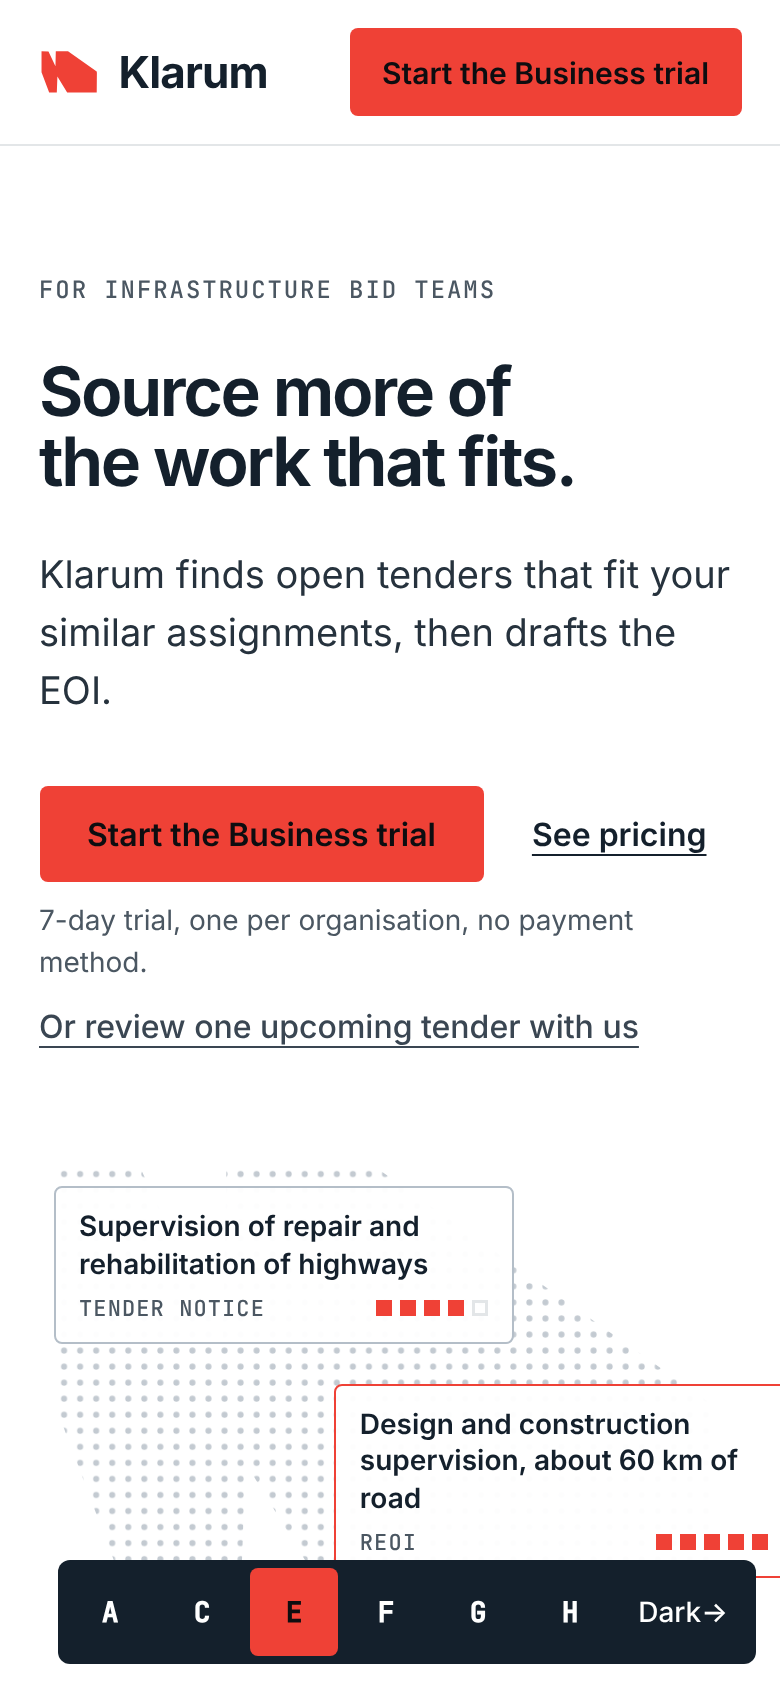
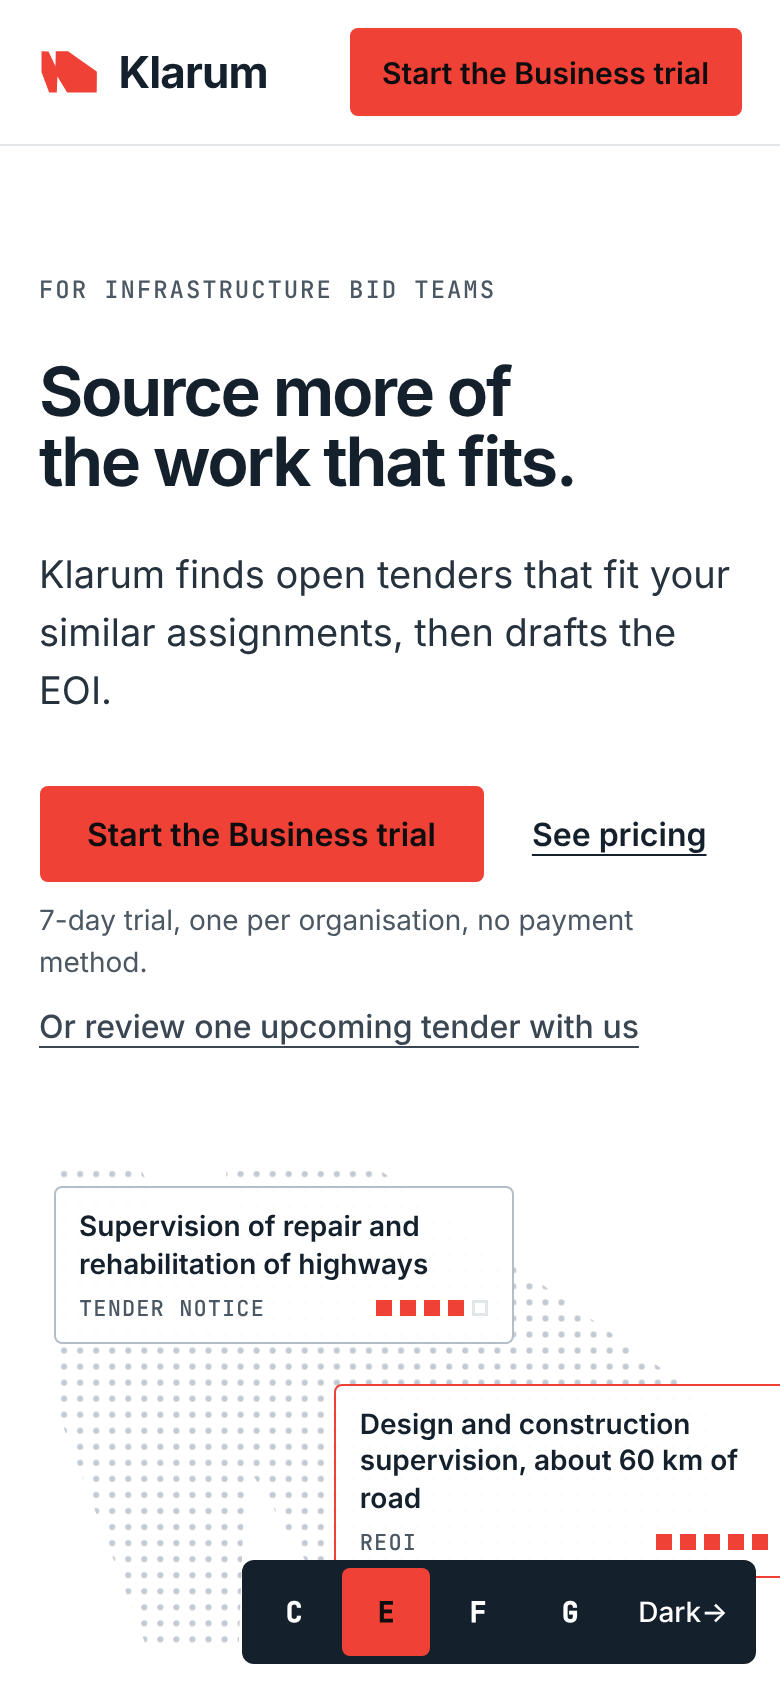
v2: drop heroes A and H; /v2 now opens on C
Claude-Session: https://claude.ai/code/session_01EG1FwseZsdu64NB1Ckikp9

Changed region(s): [[0.0615, 0.9242, 0.5538, 0.9858]]

diff --git a/components/v2/Field.tsx b/components/v2/Field.tsx
@@ -1,7 +1,7 @@
 import { notices, type Notice } from "@/lib/data";
 import { Pips } from "@/components/Pips";
 
-/* Static, deterministic "notice field" art. Pure SVG, no raster, no motion except the pulse ring. */
+/* Static, deterministic "notice field" art. Pure SVG, no raster, no motion. */
 
 function rng(seed: number) {
   return () => {
@@ -50,7 +50,6 @@ function Dots({ dots, r = 3, rHit = 5.5 }: { dots: Dot[]; r?: number; rHit?: num
 const K_DOTS = scatter(1500, 700, 518, 7, (x, y) => inPoly(x, y, K_POLY), (_x, _y, i) => i % 97 === 5);
 const LENS = { cx: 330, cy: 260, r: 150 };
 const FIELD_DOTS = scatter(430, 640, 520, 11, () => true, (x, y, i) => i % 5 === 0 && (x - LENS.cx) ** 2 + (y - LENS.cy) ** 2 < (LENS.r - 14) ** 2);
-const ONE_DOTS = scatter(430, 640, 520, 23, (x, y) => (x - 470) ** 2 + (y - 270) ** 2 > 22 ** 2, () => false);
 
 function Card({ n, left, top, hit }: { n: Notice; left: string; top: string; hit?: boolean }) {
   return (
@@ -66,7 +65,7 @@ function Card({ n, left, top, hit }: { n: Notice; left: string; top: string; hit
 
 const [ted, vanuatu, srilanka] = notices;
 
-export type FieldKind = "mass" | "signal" | "lens" | "one";
+export type FieldKind = "mass" | "signal" | "lens";
 
 export function Field({ kind }: { kind: FieldKind }) {
   const kShape = kind === "mass" || kind === "signal";
@@ -88,20 +87,12 @@ export function Field({ kind }: { kind: FieldKind }) {
             <circle cx={LENS.cx} cy={LENS.cy} r={LENS.r} fill="none" stroke="#14202c" strokeWidth="1.5" />
           </>
         )}
-        {kind === "one" && (
-          <>
-            <Dots dots={ONE_DOTS} />
-            <circle cx="470" cy="270" r="7" fill="#14202c" />
-            <circle className="m-pulse" cx="470" cy="270" r="14" fill="none" stroke="#14202c" strokeWidth="2" />
-          </>
-        )}
       </svg>
       {kind === "mass" && (<><Card n={ted} left="2%" top="6%" /><Card n={vanuatu} left="42%" top="38%" hit /><Card n={srilanka} left="8%" top="68%" /></>)}
       {kind === "signal" && <Card n={vanuatu} left="40%" top="68%" hit />}
       {kind === "lens" && (<><Card n={vanuatu} left="30%" top="26%" hit /><Card n={ted} left="38%" top="58%" hit /></>)}
-      {kind === "one" && <Card n={vanuatu} left="56%" top="52%" hit />}
       <figcaption className="m-fcap">
-        {{ mass: "The mark is the mass. Notices are pulled out of it.", signal: "Grey is the feed. Red is what fits.", lens: "Inside the circle: what fits your similar assignments.", one: "Every dot is a notice." }[kind]} Illustrative; fit scores are sample values.
+        {{ mass: "The mark is the mass. Notices are pulled out of it.", signal: "Grey is the feed. Red is what fits.", lens: "Inside the circle: what fits your similar assignments." }[kind]} Illustrative; fit scores are sample values.
       </figcaption>
     </figure>
   );

diff --git a/components/v2/Hero.tsx b/components/v2/Hero.tsx
@@ -2,15 +2,13 @@ import { URLS, notices } from "@/lib/data";
 import { CompactNotice } from "@/components/NoticeFeed";
 import { Field, type FieldKind } from "./Field";
 
-export type HeroId = "a" | "c" | "e" | "f" | "g" | "h";
-export const HERO_IDS: HeroId[] = ["a", "c", "e", "f", "g", "h"];
+export type HeroId = "c" | "e" | "f" | "g";
+export const HERO_IDS: HeroId[] = ["c", "e", "f", "g"];
 export const HERO_NOTES: Record<HeroId, string> = {
-  a: "Statement. Type only.",
   c: "Feed. Notices beside the promise.",
   e: "The mass. The K as a field of dots.",
   f: "Signal in the shape. Red is what fits.",
   g: "Lens. The market filtered by fit.",
-  h: "One of these is yours.",
 };
 
 function Actions({ note = true }: { note?: boolean }) {
@@ -20,22 +18,6 @@ function Actions({ note = true }: { note?: boolean }) {
       <a href={URLS.pricing} className="m-link">See pricing</a>
       {note && <p className="m-fine">7-day trial, one per organisation, no payment method.</p>}
     </div>
-  );
-}
-
-function A() {
-  return (
-    <section className="m-hero m-hero-a">
-      <div className="m-wrap">
-        <p className="m-lab">For infrastructure bid teams</p>
-        <h1>Turn your own project files into an expression of interest that meets the shortlisting criteria.</h1>
-        <p className="m-lead">
-          Klarum finds open tenders that fit your similar assignments, then drafts the EOI. Every experience claim links to the page that proves it.
-        </p>
-        <Actions />
-        <a href={URLS.review} className="m-link m-quiet">Or review one upcoming tender with us</a>
-      </div>
-    </section>
   );
 }
 
@@ -79,8 +61,7 @@ function FieldHero({ kind, title, lead }: { kind: FieldKind; title: string; lead
 const E = () => <FieldHero kind="mass" title="Source more of the work that fits." lead="Klarum finds open tenders that fit your similar assignments, then drafts the EOI." />;
 const F = () => <FieldHero kind="signal" title="The right work, resolved from the noise." lead="Klarum finds open tenders that fit your similar assignments." />;
 const G = () => <FieldHero kind="lens" title="The whole market, filtered by what you can deliver." lead="Sources include national procurement portals, TED and the development banks. Klarum marks the notices that fit your similar assignments." />;
-const H = () => <FieldHero kind="one" title="One of these is yours." lead="Sources include national procurement portals, TED and the development banks. Every notice links back to the original publication." />;
 
 export function Hero({ id }: { id: HeroId }) {
-  return { a: <A />, c: <C />, e: <E />, f: <F />, g: <G />, h: <H /> }[id];
+  return { c: <C />, e: <E />, f: <F />, g: <G /> }[id];
 }

diff --git a/tests/v2.spec.ts b/tests/v2.spec.ts
@@ -3,12 +3,10 @@ import AxeBuilder from "@axe-core/playwright";
 
 // Light, minimalist version at /v2/<hero>. Dark version stays at /.
 const HEROES = {
-  a: /Turn your own project files into an expression of interest/,
   c: /Open tenders that fit your similar assignments, in one feed\./,
   e: /Source more of the work that fits\./,
   f: /The right work, resolved from the noise\./,
   g: /The whole market, filtered by what you can deliver\./,
-  h: /One of these is yours\./,
 } as const;
 const FORBIDDEN = /app\.klarum\.com|api\.klarum\.com|posthog/i;
 
@@ -65,20 +63,20 @@ for (const [id, h1] of Object.entries(HEROES)) {
       await page.evaluate(() => document.fonts.ready);
       const dir = `screenshots/v2/${info.project.name}`;
       await page.screenshot({ path: `${dir}/hero-${id}.png` });
-      if (id === "a") await page.screenshot({ path: `${dir}/page.png`, fullPage: true });
+      if (id === "c") await page.screenshot({ path: `${dir}/page.png`, fullPage: true });
     });
   });
 }
 
 test("v2: switcher links every hero and the dark version", async ({ page }) => {
-  await page.goto("/v2/a");
+  await page.goto("/v2/c");
   const nav = page.getByRole("navigation", { name: "Hero variants" });
-  for (const l of ["A", "C", "E", "F", "G", "H"]) await expect(nav.getByRole("link", { name: new RegExp(`^Hero ${l}`) })).toBeVisible();
+  for (const l of ["C", "E", "F", "G"]) await expect(nav.getByRole("link", { name: new RegExp(`^Hero ${l}`) })).toBeVisible();
   await expect(nav.getByRole("link", { name: /Dark version/ })).toHaveAttribute("href", "/");
 });
 
 test("v2: shortlist, cited claim and pricing toggle still work", async ({ page }) => {
-  await page.goto("/v2/a");
+  await page.goto("/v2/c");
   const btn = page.locator("#notices").getByRole("button", { name: /Shortlist/ }).first();
   await btn.click();
   await expect(btn).toHaveAttribute("aria-pressed", "true");
@@ -89,7 +87,7 @@ test("v2: shortlist, cited claim and pricing toggle still work", async ({ page }
 });
 
 test("v2: claims.md 'confirm' rows stay out", async ({ page }) => {
-  await page.goto("/v2/a");
+  await page.goto("/v2/c");
   const t = await page.locator("body").innerText();
   expect(t).not.toMatch(/thirty|same day|legal team can sign|ISO ?27001|SOC ?2/i);
 });

diff --git a/app/v2/minimal.css b/app/v2/minimal.css
@@ -52,11 +52,10 @@ html:has(.m) body { background: #fff; color: var(--body); }
 .m-feed .nrow { border-color: var(--line); }
 @media (max-width: 960px) { .m-split { grid-template-columns: 1fr; gap: 40px; } }
 .m-hero-field h1 { max-width: 15ch; }
-.m-hero-one h1 { font-size: clamp(2.5rem, 6.6vw, 5.5rem); max-width: 8ch; }
 .m-field { position: relative; margin: 0; width: 100%; }
 .m-field svg { display: block; width: 100%; height: auto; }
 .m-field-mass svg, .m-field-signal svg { aspect-ratio: 700 / 518; }
-.m-field-lens svg, .m-field-one svg { aspect-ratio: 640 / 520; }
+.m-field-lens svg { aspect-ratio: 640 / 520; }
 .m-fcard { position: absolute; display: grid; gap: 6px; width: min(250px, 58%); padding: 10px 12px; background: rgba(255, 255, 255, 0.96); border: 1px solid #b4bec8; border-radius: 4px; text-decoration: none; color: var(--ink); }
 .m-fcard.hit { border-color: var(--red); }
 .m-fcard:hover .m-fcard-t { text-decoration: underline; text-underline-offset: 3px; }
@@ -64,8 +63,6 @@ html:has(.m) body { background: #fff; color: var(--body); }
 .m-fcard-m { display: flex; justify-content: space-between; align-items: center; gap: 8px; font: 500 0.6875rem / 1.3 var(--font-mono); letter-spacing: 0.05em; text-transform: uppercase; color: var(--mute); }
 .m-fcard .pip { width: 8px; height: 8px; }
 .m-fcap { margin-top: 16px; font: 500 0.6875rem / 1.5 var(--font-mono); letter-spacing: 0.05em; text-transform: uppercase; color: var(--mute); }
-.m-pulse { transform-box: fill-box; transform-origin: center; animation: m-ping 2.6s ease-out infinite; }
-@keyframes m-ping { from { transform: scale(1); opacity: 0.6; } to { transform: scale(2.2); opacity: 0; } }
 @media (max-width: 760px) { .m-field-mass .m-fcard:nth-of-type(3) { display: none; } .m-fcard { width: min(230px, 66%); } }
 
 .m-proof { border-top: 1px solid var(--line); padding-block: 40px; }

diff --git a/app/v2/page.tsx b/app/v2/page.tsx
@@ -1,5 +1,5 @@
 import { redirect } from "next/navigation";
 
 export default function V2Index() {
-  redirect("/v2/a");
+  redirect("/v2/c");
 }
